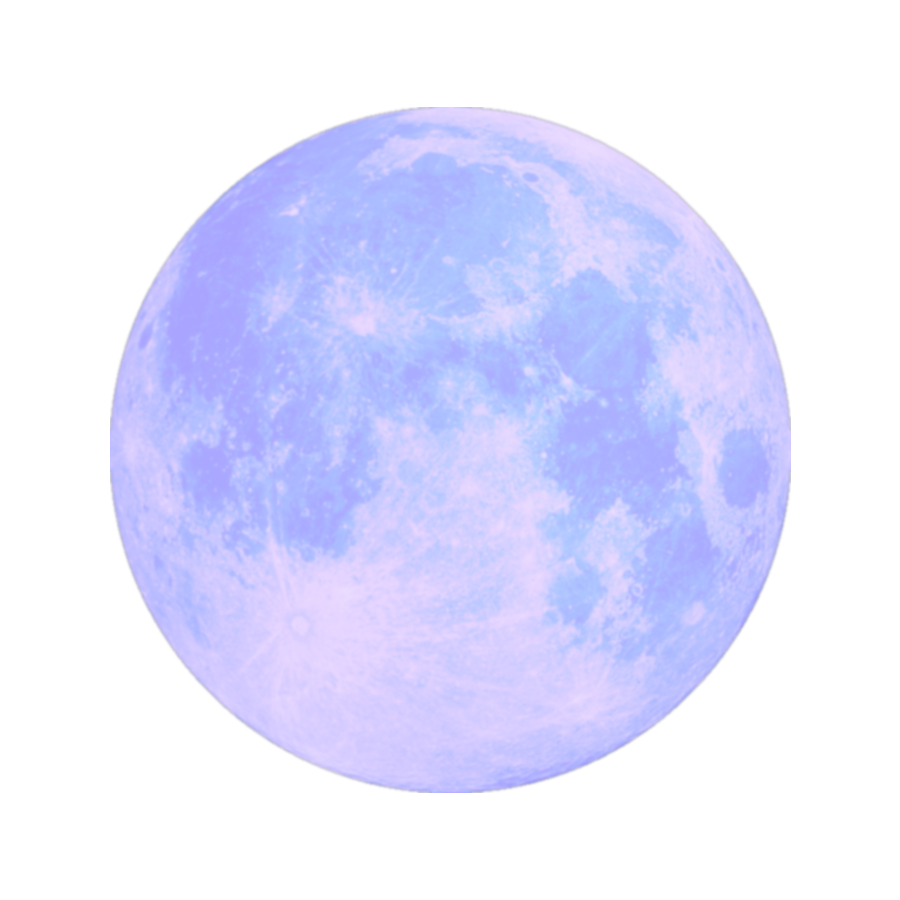
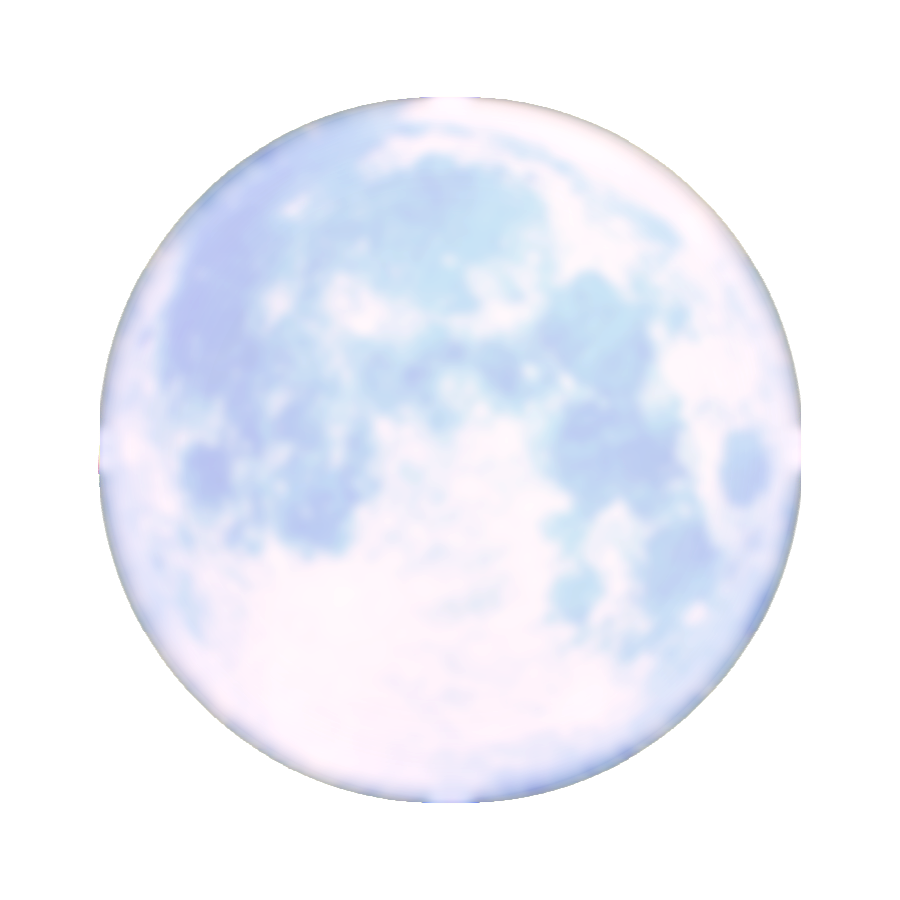
nighttime stage complete

diff --git a/src/components/Canvas.js b/src/components/Canvas.js
@@ -6,6 +6,7 @@ import Ground from './Ground'
 import Egypt from './Egypt'
 import Coin from './Coin'
 import EndGame from './EndGame'
+import NightSky from './NightSky'
 import '../Canvas.css'
 
 class Canvas extends Component {
@@ -15,7 +16,7 @@ class Canvas extends Component {
     coins: 0,
     score: 0,
     distance: 0,
-    timer: 0,
+    timer: 0, 
     millisecond: 0,
     playerName: null,
     playerAvatar: null, 
@@ -82,7 +83,7 @@ class Canvas extends Component {
   }
 
   createPalmTreePositions() {
-    let positions = Array.from({ length: 100 }, () => (Math.random() * 500) + (Math.random() * 100))
+    let positions = Array.from({ length: 40}, () => (Math.random() * 1000))
     return positions
   }
 
@@ -127,10 +128,6 @@ class Canvas extends Component {
     
     this.draw = function() {
 
-
-      
-
-
       let p1 = canvas.height - ground.getY(t + player.x) * 0.25;
       let p2 = canvas.height - ground.getY(t+5 + player.x) * 0.25;
       
@@ -142,8 +139,6 @@ class Canvas extends Component {
         player.y = p1 - 15;
         grounded = 1
       }
-
-      
       
       //LOSING CONDITION
       if (player.rot < -2 && grounded){
@@ -195,7 +190,6 @@ class Canvas extends Component {
     //LOOP
     const loop = () => {
 
-
       if (lifeOver && this.state.lives > 0) {
         return ;
       }
@@ -215,33 +209,27 @@ class Canvas extends Component {
         isRunning = false
       }
 
+      //NIGHTSKY BACKGROUND
+      // const gradient = context.createLinearGradient(((100)-(this.state.distance/10)), (100-this.state.distance), (100-(this.state.distance/10)), (800+this.state.distance))
+      // gradient.addColorStop(0, "midnightblue");
+      // gradient.addColorStop(1, "thistle");
+      // context.fillStyle = gradient
       
-
-      // context.fillStyle = 'rgb(24, 26, 31)'
-      // let grade = context.createLinearGradient((1400 - (this.state.distance * 2)), 0, 3000 - (this.state.distance * 4), 1800-this.state.distance)
-      // grade.addColorStop(0, "midnightblue");
-      // grade.addColorStop(1, "thistle");
-      // context.fillStyle = grade
-
-      //EGYPT COLOR
+      //EGYPT BACKGROUND
       context.fillStyle = 'rgb(245, 186, 83)'
+    
+      //******************GREY FLOOR DON'T COMMENT**************************//
       context.fillRect(0, 0, canvas.width, canvas.height);
-
-      //GROUND COLOR
       context.fillStyle = "rgb(39, 44, 44)";
       context.beginPath();
-
+      //******************GREY FLOOR DON'T COMMENT**************************//
       
-
-      // let moon = new Image()
-      // moon.src = 'night-stage-images/moon2.png'
-      // let plane = new Image() 
-      // plane.src = 'night-stage-images/plane.png'
-
-      // context.drawImage(plane, 2000 - (this.state.millisecond/10), 80+(this.state.millisecond/100) , 60, 32)
-      // context.drawImage(moon, (canvas.width - 100) - (this.state.distance * 3), (250 - (this.state.distance)), 500, 500)
-      // console.log(moon)
-
+      
+      //************************NIGHT STAGE********************************//
+      // let nightSky = new NightSky()
+      // nightSky.drawStage(canvas, context, this.state.distance, this.state.millisecond)
+      //************************NIGHT STAGE********************************//
+      
       //************************EGYPT STAGE********************************//
       let egypt = new Egypt()
       egypt.drawStage(canvas, context, ground, this.state.distance, this.palmTreePositions, t, this.state.timer)

diff --git a/src/components/Egypt.js b/src/components/Egypt.js
@@ -7,6 +7,7 @@ class Egypt {
   drawStage(canvas, context, ground, distance, palmTreePositions, t, timer) {
     //SUN
     const sun = new Sun(canvas, distance)
+    if (sun.x > -sun.size)
     context.drawImage(sun.img, sun.x, sun.y, sun.size, sun.size)
     
     //PYRAMIDS
@@ -15,13 +16,15 @@ class Egypt {
     context.drawImage(pyramid.img, pyramid.x + 2000, -40, 540, 540)
 
     //PALM TREES
-    const palmTrees = palmTreePositions.map(position => {
+    let palmTrees = palmTreePositions.map(position => {
       let tree = new PalmTree(timer)
       tree.position = position
       tree.x = ((position * 100) - t) + (canvas.width/2)
       tree.y = (canvas.height - ground.getY(t + tree.x) * 0.25) - 290
       return tree
     })
+    palmTrees = palmTrees.filter(tree => tree.x > -(tree.size)&& tree.x < (canvas.width))
+    // console.log(palmTrees)
     palmTrees.forEach(tree => {
       context.drawImage(tree.img, tree.x, tree.y, tree.size, tree.size)
     })

diff --git a/src/components/NightSky.js b/src/components/NightSky.js
@@ -1,0 +1,34 @@
+import Moon from './Moon.js'
+import Stars from './Stars.js'
+import Plane from './Plane.js'
+
+
+
+class NightSky {
+ 
+  drawStage(canvas, context, distance, millisecond) {
+    //MOON
+    const moon = new Moon(canvas, distance)
+    context.drawImage(moon.img, moon.x, moon.y, moon.size, moon.size)
+    
+    //STARS
+    const stars = new Stars(distance)
+    context.drawImage(stars.img, stars.x, stars.y, stars.width, stars.height)
+
+    //PLANES
+    let planes = []
+    for (let i=0; i < 100; i++){
+      let plane = new Plane(canvas, millisecond)
+      plane.x += (i * (canvas.width + 100))
+      plane.y -= (i*100)
+      planes.push(plane)
+    }
+    planes = planes.filter(plane => plane.x > -100 && plane.x < canvas.width + 100)
+    planes.forEach(plane => {
+      context.drawImage(plane.img, plane.x, plane.y, plane.width, plane.height)
+    })
+  }
+}
+
+
+export default NightSky

diff --git a/src/components/Plane.js b/src/components/Plane.js
@@ -1,0 +1,14 @@
+class Plane {
+
+  constructor(canvas, millisecond) {
+    this.img = new Image() 
+    this.img.src = "night-stage-images/plane.png"
+    this.x = (canvas.width + 100) - (millisecond/10)
+    this.y = (10 + (millisecond/100))
+    this.width = 100
+    this.height = 45
+  }
+
+}
+
+export default Plane

diff --git a/src/components/Player.js b/src/components/Player.js
@@ -5,7 +5,7 @@ class Player {
     this.movingImage = new Image();
     this.movingImage.src = `caveman/running01.png`
     this.profileImageSource = `caveman/cavemanFront.png`
-    this.x = canvas.width/3.5;
+    this.x = canvas.width/2;
     this.y = 0;
     this.ySpeed = 0;
     this.rot = 0;

diff --git a/src/components/Moon.js b/src/components/Moon.js
@@ -1,0 +1,13 @@
+class Moon {
+
+  constructor(canvas, distance) {
+    this.img = new Image() 
+    this.img.src = "night-stage-images/moon.png"
+    this.size = 500 + distance
+    this.x = ((canvas.width/2) - (this.size/2))
+    this.y = (280 - (distance))
+  }
+
+}
+
+export default Moon

diff --git a/src/components/Stars.js b/src/components/Stars.js
@@ -1,0 +1,14 @@
+class Stars {
+
+  constructor(distance) {
+    this.img = new Image() 
+    this.img.src = "night-stage-images/dotted-stars-big.png"
+    this.x = 0
+    this.y = 0-(distance*2)
+    this.width = 1920
+    this.height = 1080
+  }
+  
+}
+
+export default Stars
